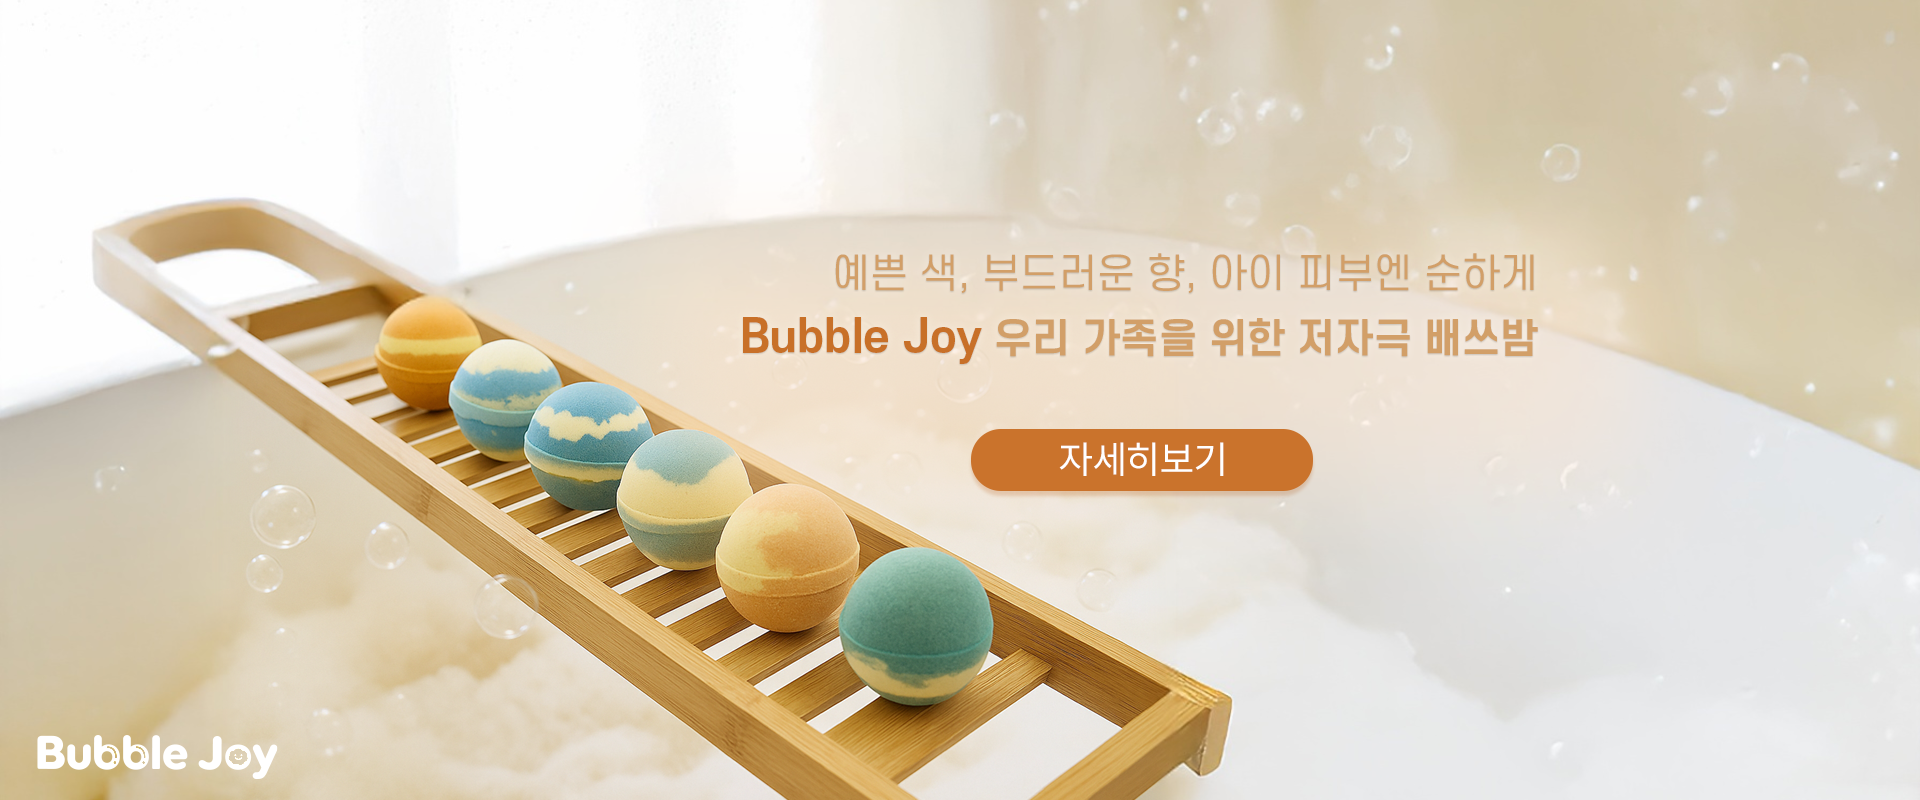
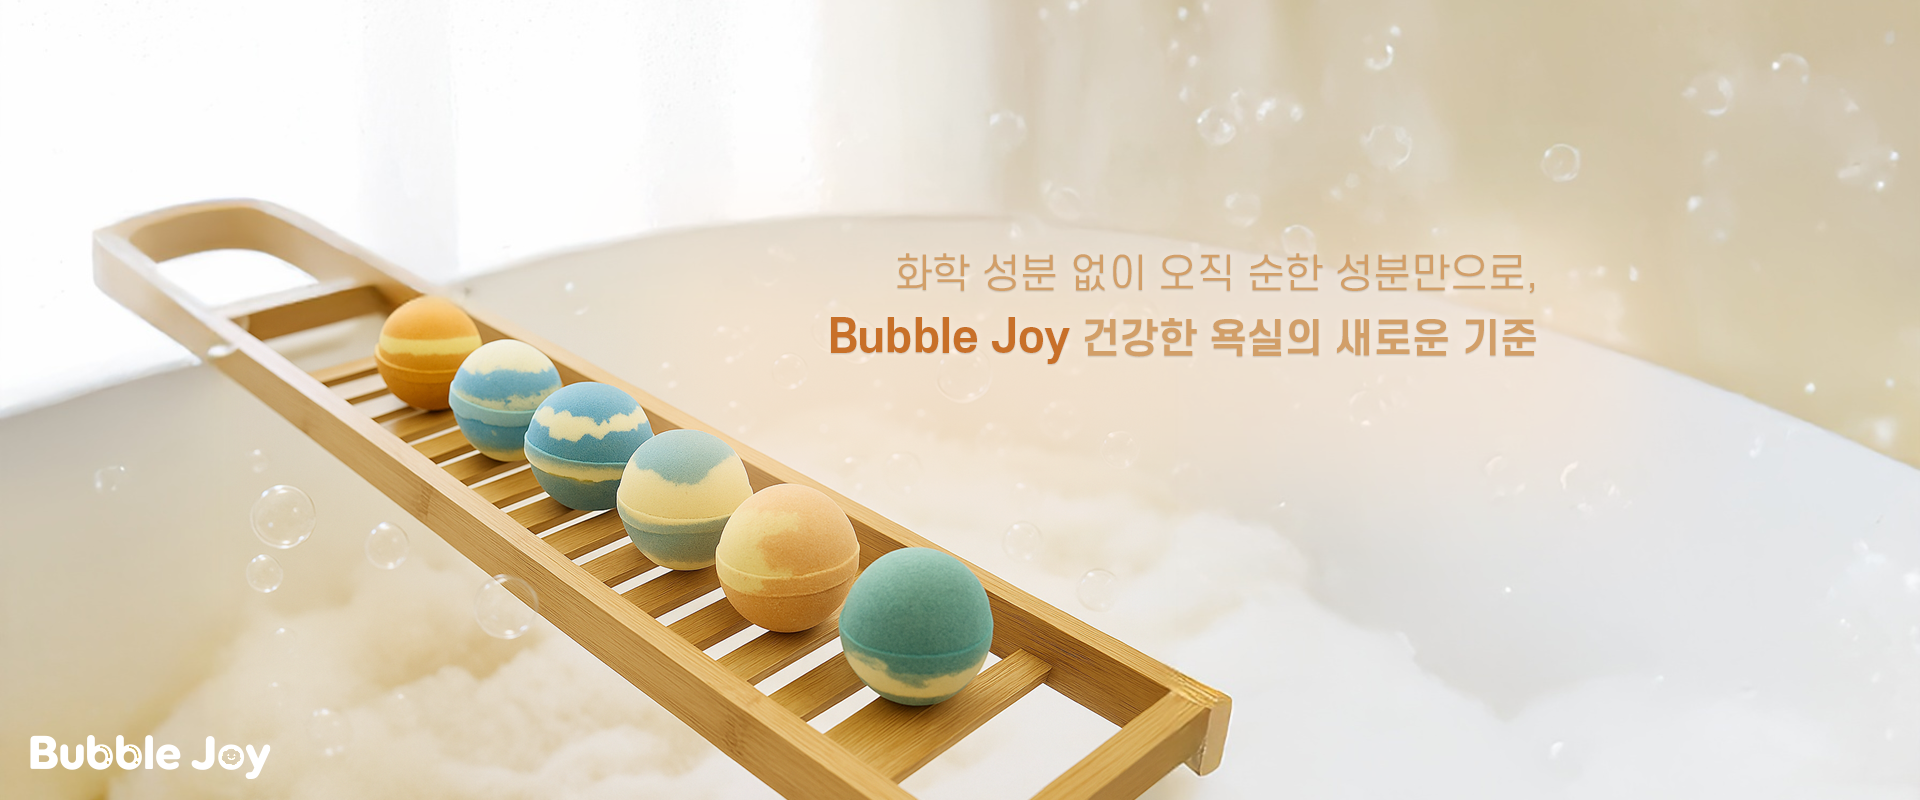
-메인 배너 버튼 -제목 간격 통일

Changed region(s): [[0.375, 0.3125, 0.8125, 0.4688], [0.5, 0.5312, 0.6875, 0.625], [0.0, 0.9062, 0.1562, 0.9688]]

diff --git a/css/style.css b/css/style.css
@@ -251,6 +251,65 @@ header:hover {
   transform: translate(-50%, -50%);
 }
 
+/* 버튼 공통 스타일 */
+.banner-button {
+  position: absolute;
+  z-index: 10;
+  transform: translate(-50%, -50%);
+}
+
+/* 각 배너별 개별 위치 조정 */
+.bbt1{
+  top: 58%; /* 버튼 위치 조정 */
+  left: 60%;
+}
+.bbt2{
+  top: 63%; /* 버튼 위치 조정 */
+  left: 60%;
+}
+.bbt3{
+  top: 63%; /* 버튼 위치 조정 */
+  left: 60%;
+}
+
+.banner-button button{
+  font-family: 'NanumSquareRound', sans-serif;
+  font-size: 22px;
+  color: white;
+  border: none;
+  padding: 12px 90px;
+  border-radius: 50px;
+  cursor: pointer;
+  box-shadow: 0 4px 10px rgba(0, 0, 0, 0.2);
+  transition: background-color 0.3s, transform 0.2s;
+}
+
+.banner-button button:hover{
+  transform: scale(1.05);
+}
+
+.bbt1 button{
+  background-color: #d87d32;
+}
+.bbt1 button:hover{
+  background-color: #e8954e;
+}
+
+.bbt2 button {
+  background-color: #aa4bf6;
+}
+.bbt2 button:hover{
+  background-color: #bc71f9;
+}
+
+.bbt3 button{
+  background-color: #43ac26;
+}
+.bbt3 button:hover{
+  background-color: #57d235;
+}
+
+
 /* .swiper {
     overflow: hidden;
   } */
@@ -351,7 +410,7 @@ section {
 
 #brandstory h2 {
   text-align: center;
-  padding: 200px 0 150px 0;
+  padding: 200px 0 100px 0;
   font-family: 'NanumSquareRound';
   font-size: 40px;
   font-weight: bold;
@@ -597,6 +656,7 @@ section ul li img {
 #bathbomb h2 {
   font-size: 40px;
   font-weight: bold;
+  padding-bottom: 100px;
 }
 
 #bathbomb .swiper {
@@ -961,6 +1021,7 @@ section ul li img {
 
 .review-title {
   font-size: 40px;
+  padding-bottom: 100px;
 }
 
 .reviews-grid{
@@ -1045,8 +1106,8 @@ section ul li img {
 
 .notice-section h2 {
   font-size: 40px;
-  margin-bottom: 30px;
   font-family: 'NanumSquareRound';
+  padding-bottom: 100px;
 }
 
 /* 슬라이드 박스 스타일 */

diff --git a/index.html b/index.html
@@ -61,12 +61,21 @@
 
           <div class="swiper-slide">
             <img src="img/배너1.png" alt="메인배너">
+            <div class="banner-button bbt1">
+              <button onclick="location.href='#brandstory'">자세히보기</button>
+            </div>
           </div>
           <div class="swiper-slide">
             <img src="img/배너2.png" alt="메인배너">
+            <div class="banner-button bbt2">
+              <button onclick="location.href='#brandstory'">자세히보기</button>
+            </div>
           </div>
           <div class="swiper-slide">
             <img src="img/배너3.png" alt="메인배너">
+            <div class="banner-button bbt3">
+              <button onclick="location.href='#brandstory'">자세히보기</button>
+            </div>
           </div>
 
         </div>
@@ -560,7 +569,7 @@
               <img class="review-slide review-img4" src="img/review4.png" alt="리뷰4">
             </div>
           </div>
-              <!-- 네비게이션 -->
+          <!-- 네비게이션 -->
           <div class="bathbomb-nav-buttons">
             <div class="swiper-button-prev review-prev"></div>
             <div class="swiper-button-next review-next"></div>
